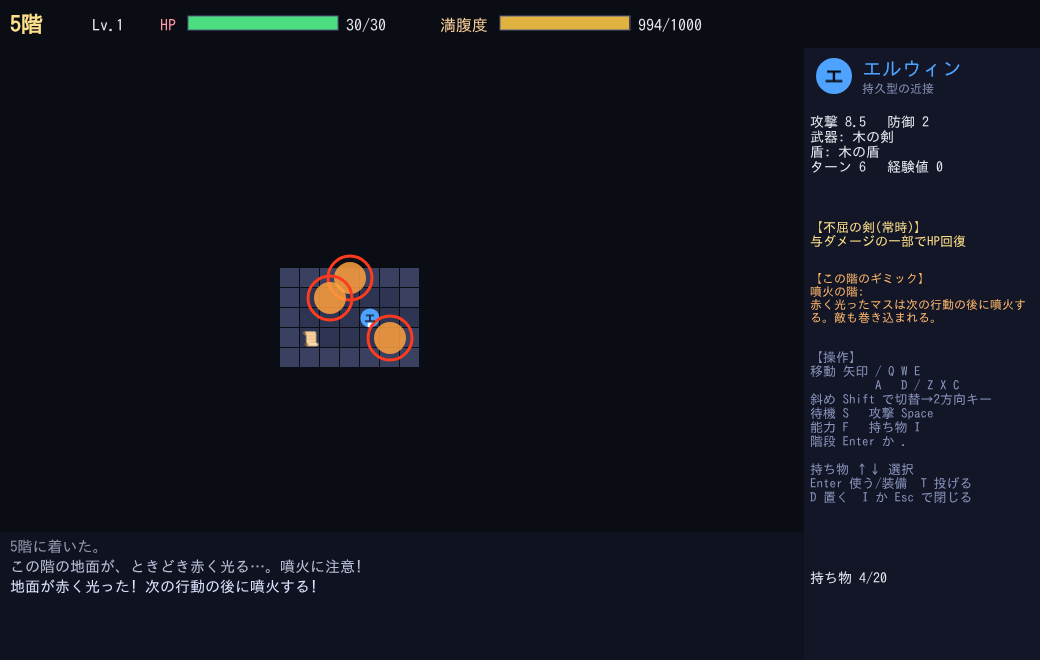
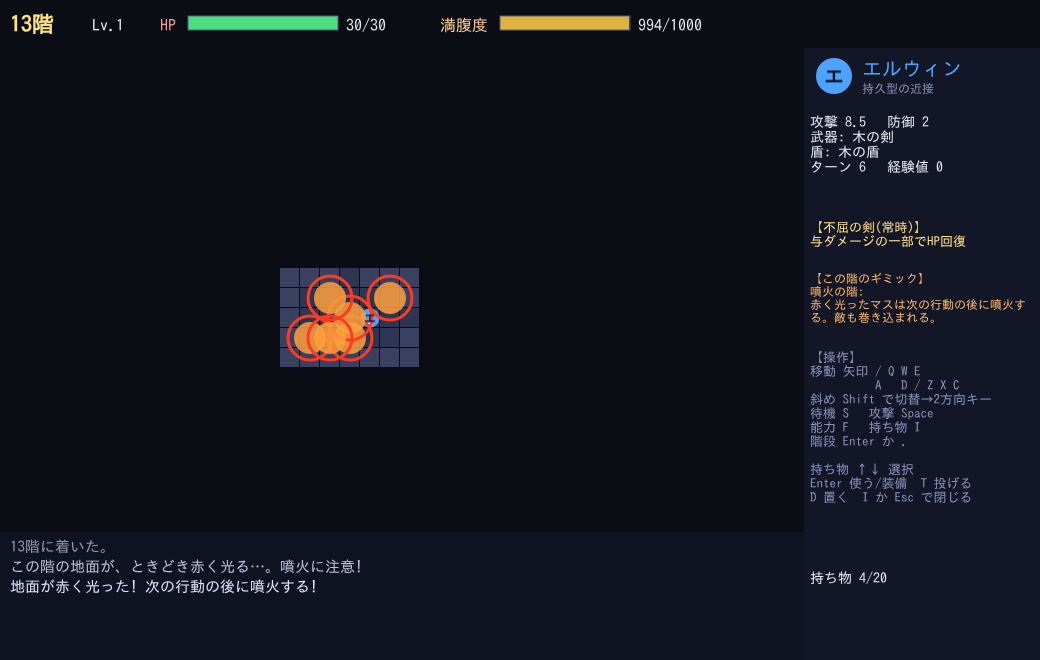
全20階にし、ギミックは11階以降に変更(敵の出現階・成長・数値を調整)
Claude-Session: https://claude.ai/code/session_01CApP844H6gPytoXvYh9u8m

Changed region(s): [[0.2769, 0.3939, 0.4, 0.5455], [0.0, 0.0, 0.0615, 0.0606], [0.0, 0.8182, 0.0923, 0.8485]]

diff --git a/src/core/data.ts b/src/core/data.ts
@@ -1,6 +1,8 @@
 // ゲームデータ(キャラ・アイテム・敵・罠)。数値の理由は DESIGN.md に記録。
 
-export const MAX_FLOOR = 10;
+export const MAX_FLOOR = 20;
+/** この階からギミックが出る(1〜10階は基本のダンジョン) */
+export const GIMMICK_FROM_FLOOR = 11;
 export const INV_MAX = 20;
 export const MAX_FULLNESS = 1000;
 
@@ -34,7 +36,7 @@ export const CHARS: Record<CharId, CharDef> = {
   },
   barrage: {
     id: 'barrage', name: 'バラージ', role: 'バランス型・瞬間火力', glyph: 'バ', color: 0xff8a3d,
-    hp: 27, hpUp: 10, atk: 7.5, atkUp: 1.1, def: 1, mp: 0, mpUp: 0, evasion: 0,
+    hp: 27, hpUp: 11, atk: 7.5, atkUp: 1.2, def: 1, mp: 0, mpUp: 0, evasion: 0,
     abilityName: '変身(Fキー)',
     abilityDesc: '8ターン変身し、攻撃力が上がって2回行動できる。使用後28ターンは再使用不可。',
   },
@@ -166,19 +168,19 @@ export interface EnemyDef {
 }
 
 export const ENEMIES: EnemyDef[] = [
-  { id: 'slime', name: 'スライム', glyph: '🟢', color: 0x4ade80, hp: 8, atk: 4, def: 0, exp: 4, min: 1, max: 4, ai: 'melee', range: 0, note: '単純に追ってくる' },
-  { id: 'bat', name: 'コウモリ', glyph: '🦇', color: 0x8b8ba7, hp: 7, atk: 4, def: 0, exp: 5, min: 1, max: 5, ai: 'erratic', range: 0, note: '不規則に飛び回る' },
-  { id: 'goblin', name: 'ゴブリン', glyph: '👺', color: 0xe05a47, hp: 16, atk: 6, def: 1, exp: 8, min: 2, max: 7, ai: 'melee', range: 0, note: '丈夫な近接型' },
-  { id: 'thief', name: 'どろぼう', glyph: '🦝', color: 0xc9a227, hp: 14, atk: 3, def: 0, exp: 9, min: 3, max: 8, ai: 'thief', range: 0, note: '持ち物を盗んで逃げる' },
-  { id: 'archer', name: '弓兵', glyph: '🏹', color: 0xd4a373, hp: 14, atk: 6, def: 0, exp: 10, min: 4, max: 9, ai: 'ranged', range: 5, note: '直線上から矢を撃つ' },
-  { id: 'moth', name: '眠り蛾', glyph: '🦋', color: 0x7dd3fc, hp: 16, atk: 5, def: 0, exp: 11, min: 5, max: 10, ai: 'moth', range: 0, note: '攻撃で眠らせてくる' },
-  { id: 'mage', name: '魔術師', glyph: '🧙', color: 0xa78bfa, hp: 15, atk: 7, def: 0, exp: 13, min: 6, max: 10, ai: 'mage', range: 4, note: '防御を無視する魔法を撃つ' },
-  { id: 'golem', name: 'ゴーレム', glyph: '🗿', color: 0x9ca3af, hp: 40, atk: 11, def: 3, exp: 18, min: 7, max: 10, ai: 'slow', range: 0, note: '2ターンに1回しか動かないが硬い' },
+  { id: 'slime', name: 'スライム', glyph: '🟢', color: 0x4ade80, hp: 8, atk: 4, def: 0, exp: 4, min: 1, max: 8, ai: 'melee', range: 0, note: '単純に追ってくる' },
+  { id: 'bat', name: 'コウモリ', glyph: '🦇', color: 0x8b8ba7, hp: 7, atk: 4, def: 0, exp: 5, min: 1, max: 10, ai: 'erratic', range: 0, note: '不規則に飛び回る' },
+  { id: 'goblin', name: 'ゴブリン', glyph: '👺', color: 0xe05a47, hp: 16, atk: 6, def: 1, exp: 8, min: 3, max: 14, ai: 'melee', range: 0, note: '丈夫な近接型' },
+  { id: 'thief', name: 'どろぼう', glyph: '🦝', color: 0xc9a227, hp: 14, atk: 3, def: 0, exp: 9, min: 5, max: 16, ai: 'thief', range: 0, note: '持ち物を盗んで逃げる' },
+  { id: 'archer', name: '弓兵', glyph: '🏹', color: 0xd4a373, hp: 14, atk: 6, def: 0, exp: 10, min: 7, max: 18, ai: 'ranged', range: 5, note: '直線上から矢を撃つ' },
+  { id: 'moth', name: '眠り蛾', glyph: '🦋', color: 0x7dd3fc, hp: 16, atk: 5, def: 0, exp: 11, min: 9, max: 20, ai: 'moth', range: 0, note: '攻撃で眠らせてくる' },
+  { id: 'mage', name: '魔術師', glyph: '🧙', color: 0xa78bfa, hp: 15, atk: 7, def: 0, exp: 13, min: 11, max: 20, ai: 'mage', range: 4, note: '防御を無視する魔法を撃つ' },
+  { id: 'golem', name: 'ゴーレム', glyph: '🗿', color: 0x9ca3af, hp: 40, atk: 11, def: 3, exp: 18, min: 13, max: 20, ai: 'slow', range: 0, note: '2ターンに1回しか動かないが硬い' },
 ];
 
 export const BOSS: EnemyDef = {
   id: 'boss', name: '試練の竜', glyph: '🐉', color: 0xf43f5e, hp: 135, atk: 13, def: 3, exp: 300,
-  min: 10, max: 10, ai: 'boss', range: 5, note: '近づくと殴り、離れると炎を吐く',
+  min: 20, max: 20, ai: 'boss', range: 5, note: '近づくと殴り、離れると炎を吐く',
 };
 
 export function expToNext(level: number): number {
@@ -197,22 +199,22 @@ export interface GimmickDef {
   weight: number;
 }
 
-/** 2〜9階のうち、階ごとに多くて1つ。同じギミックは続けて出ない。1階とボス階(10階)は出ない。 */
+/** 11〜19階のうち、階ごとに多くて1つ。同じギミックは続けて出ない。10階までとボス階(20階)は出ない。 */
 export const GIMMICKS: GimmickDef[] = [
-  { id: 'vault', name: '鍵と宝部屋', min: 2, weight: 3,
+  { id: 'vault', name: '鍵と宝部屋', min: 11, weight: 3,
     desc: 'どこかに鍵が落ちている。鍵で、鍵のかかった宝部屋の扉を開けられる。',
     announce: 'この階のどこかに、鍵のかかった宝部屋がある…' },
-  { id: 'dark', name: '暗闇の階', min: 3, weight: 2,
+  { id: 'dark', name: '暗闇の階', min: 13, weight: 2,
     desc: '周り2マスしか見えない。遠距離攻撃も飛んでこない。',
     announce: 'この階は真っ暗だ…。周りがほとんど見えない!' },
-  { id: 'house', name: 'モンスターハウス', min: 3, weight: 3,
+  { id: 'house', name: 'モンスターハウス', min: 12, weight: 3,
     desc: '敵が眠る部屋がある。踏み込むと全員が目を覚ます。奥には宝がある。',
     announce: 'この階には、嫌な気配がする…' },
-  { id: 'eruption', name: '噴火の階', min: 4, weight: 3,
+  { id: 'eruption', name: '噴火の階', min: 14, weight: 3,
     desc: '赤く光ったマスは次の行動の後に噴火する。敵も巻き込まれる。',
     announce: 'この階の地面が、ときどき赤く光る…。噴火に注意!' },
 ];
 
 export function eruptionDamage(floor: number): number {
-  return 4 + floor;
+  return 6 + Math.floor(floor / 2);
 }

diff --git a/src/core/game.ts b/src/core/game.ts
@@ -2,7 +2,7 @@
 import { Rng } from './rng';
 import {
   ALIAS_POOL, BARRAGE_CD, BARRAGE_DURATION, BOSS, CHARS, CLAYD_CD, CLAYD_INFO_TURNS, EFFECTS, ENEMIES,
-  INV_MAX, ItemKind, KIND_WEIGHTS, MAX_FLOOR, MAX_FULLNESS, SION_COST, SION_RANGE, TRAPS, TrapKind,
+  GIMMICK_FROM_FLOOR, INV_MAX, ItemKind, KIND_WEIGHTS, MAX_FLOOR, MAX_FULLNESS, SION_COST, SION_RANGE, TRAPS, TrapKind,
   CharId, EnemyDef, effectOf, expToNext,
 } from './data';
 import { DOOR, FLOOR, FloorMap, H, STAIRS, W, WALL, generateFloor } from './mapgen';
@@ -212,7 +212,7 @@ export class Game {
       this.forcedGimmick = null;
       return g;
     }
-    if (f < 2 || f >= MAX_FLOOR) return 'none';
+    if (f < GIMMICK_FROM_FLOOR || f >= MAX_FLOOR) return 'none';
     const pool = GIMMICKS.filter((g) => f >= g.min && g.id !== this.lastGimmick);
     if (pool.length === 0 || this.rng.chance(0.25)) return 'none'; // ギミックのない階も混ぜる
     return this.rng.weighted(pool).id;
@@ -390,7 +390,7 @@ export class Game {
       const by = room.y + Math.floor(room.h / 2);
       this.spawnMonster(BOSS, bx, by);
     }
-    const count = (f === MAX_FLOOR ? 4 : 4 + Math.floor(f / 2)) + this.rng.int(0, 2);
+    const count = (f === MAX_FLOOR ? 4 : 4 + Math.floor(f / 4)) + this.rng.int(0, 2);
     for (let i = 0; i < count; i++) {
       const pos = this.randomFreeTile(6);
       if (!pos) continue;
@@ -406,7 +406,7 @@ export class Game {
       if (pos) this.floorItems.push({ x: pos.x, y: pos.y, item: this.randomItem() });
     }
     // 罠
-    const nTraps = 3 + Math.floor(f / 3) + this.rng.int(0, 1);
+    const nTraps = 3 + Math.floor(f / 6) + this.rng.int(0, 1);
     for (let i = 0; i < nTraps; i++) {
       const pos = this.randomFreeTile(3);
       if (!pos) continue;
@@ -420,17 +420,17 @@ export class Game {
   private pickEnemy(): EnemyDef {
     const f = this.floor;
     const pool = ENEMIES.filter((e) => f >= e.min && f <= e.max).map((e) => ({
-      e, weight: 1 + (f - e.min) * 0.3,
+      e, weight: 1 + (f - e.min) * 0.15,
     }));
     return this.rng.weighted(pool).e;
   }
 
   spawnMonster(def: EnemyDef, x: number, y: number): Monster {
     const f = this.floor;
-    const hp = Math.round(def.hp * (def.id === 'boss' ? 1 : 1 + 0.12 * (f - 1)));
-    const atk = Math.round(def.atk * (def.id === 'boss' ? 1 : 1 + 0.09 * (f - 1)));
+    const hp = Math.round(def.hp * (def.id === 'boss' ? 1 : 1 + 0.06 * (f - 1)));
+    const atk = Math.round(def.atk * (def.id === 'boss' ? 1 : 1 + 0.045 * (f - 1)));
     const m: Monster = {
-      id: this.nextId++, def, hp, maxHp: hp, atk, armor: def.def + (def.id === 'boss' ? 0 : Math.floor(f / 5)),
+      id: this.nextId++, def, hp, maxHp: hp, atk, armor: def.def + (def.id === 'boss' ? 0 : Math.floor(f / 10)),
       x, y, sleep: 0, dormant: false, alerted: def.id === 'boss', fleeing: false, phase: 0, cd: 3, stolen: null, deepSleep: 0,
     };
     this.monsters.push(m);
@@ -735,7 +735,7 @@ export class Game {
         if (this.status === 'playing') this.newFloor(this.floor + 1);
         break;
       case 'mine': {
-        const d = 12 + this.floor * 2;
+        const d = 12 + this.floor;
         this.log(`地雷が爆発した! ${d}のダメージ!`);
         this.traps.splice(this.traps.indexOf(tr), 1);
         this.damagePlayer(d, '地雷');

diff --git a/test/core.test.ts b/test/core.test.ts
@@ -41,7 +41,7 @@ describe('乱数とマップ生成', () => {
     expect(runBot('elwin', 5).turns).toBe(runBot('elwin', 5).turns);
   });
 
-  it('全10階で階段(10階はボス部屋)まで道がつながる', () => {
+  it('全20階で階段(最終階はボス部屋)まで道がつながる', () => {
     for (let seed = 1; seed <= 20; seed++) {
       const rng = new Rng(seed);
       for (let f = 1; f <= MAX_FLOOR; f++) {
@@ -59,7 +59,7 @@ describe('乱数とマップ生成', () => {
     expect(H).toBeGreaterThan(0);
   });
 
-  it('10階にボスが1体いる', () => {
+  it('最終階(20階)にボスが1体いる', () => {
     const g = new Game('elwin', 3, { startFloor: MAX_FLOOR });
     expect(g.monsters.filter((m) => m.def.id === 'boss')).toHaveLength(1);
   });
@@ -271,7 +271,7 @@ describe('基本ルール', () => {
   it('敵は8種類以上いて、階層ごとに出る種類が変わる', () => {
     expect(ENEMIES.length).toBeGreaterThanOrEqual(8);
     const early = new Set(ENEMIES.filter((e) => e.min <= 1).map((e) => e.id));
-    const late = new Set(ENEMIES.filter((e) => e.max >= 10).map((e) => e.id));
+    const late = new Set(ENEMIES.filter((e) => e.max >= MAX_FLOOR).map((e) => e.id));
     expect([...early].sort()).not.toEqual([...late].sort());
   });
 });
@@ -480,21 +480,21 @@ describe('斜め入力', () => {
 /** 指定のギミックがうまく作れた最初のシードのゲームを返す */
 function gimmickGame(gimmick: GimmickId, charId: CharId = 'elwin'): Game {
   for (let seed = 1; seed <= 60; seed++) {
-    const g = new Game(charId, seed, { startFloor: 5, gimmick });
+    const g = new Game(charId, seed, { startFloor: 13, gimmick });
     if (g.gimmick === gimmick) return g;
   }
   throw new Error(`${gimmick} を作れるシードが見つからない`);
 }
 
 describe('階のギミック', () => {
-  it('1階とボス階にはギミックが出ず、同じギミックは続けて出ない', () => {
+  it('ギミックは11〜19階だけに出て、同じギミックは続けて出ない', () => {
     for (let seed = 1; seed <= 40; seed++) {
       const g = new Game('elwin', seed);
       expect(g.gimmick).toBe('none');
       let last: GimmickId = 'none';
       for (let f = 2; f <= MAX_FLOOR; f++) {
         g.newFloor(f);
-        if (f === MAX_FLOOR) expect(g.gimmick).toBe('none');
+        if (f <= 10 || f === MAX_FLOOR) expect(g.gimmick).toBe('none');
         else if (g.gimmick !== 'none' && last !== 'none') expect(g.gimmick).not.toBe(last);
         last = g.gimmick;
       }

diff --git a/scripts/shots.ts b/scripts/shots.ts
@@ -168,7 +168,7 @@ async function main() {
 
   // ---- 階のギミック ----
   /** 指定のギミックが作れるシードを探して、その階から始める */
-  async function startGimmick(charNo: number, gimmick: string, floor = 5) {
+  async function startGimmick(charNo: number, gimmick: string, floor = 13) {
     for (let seed = 1; seed <= 40; seed++) {
       await page.goto(`${base}?seed=${seed}&floor=${floor}&gimmick=${gimmick}`);
       await page.waitForTimeout(400);
@@ -219,7 +219,7 @@ async function main() {
   await shot('23b_gimmick_vault_opened');
 
   // 11. ボス戦
-  await startRun(1, '&floor=10');
+  await startRun(1, '&floor=20');
   await stage(`const b = g.monsters.find(m => m.def.id === 'boss'); g.monsters = [b]; b.alerted = true;
     for (let i = 1; i <= 6; i++) carve(b.x - i, b.y);
     p.x = b.x - 4; p.y = b.y; p.dx = 1; p.dy = 0; carve(p.x, p.y);`);
@@ -234,7 +234,7 @@ async function main() {
   await shot('12_gameover');
 
   // 13. クリア
-  await startRun(3, '&floor=10');
+  await startRun(3, '&floor=20');
   await stage(`const b = g.monsters.find(m => m.def.id === 'boss'); g.monsters = [b];
     carve(b.x - 1, b.y); p.x = b.x - 1; p.y = b.y; p.dx = 1; p.dy = 0; b.hp = 1; b.sleep = 99;`);
   await page.evaluate(`window.__app.act({ t: 'move', dx: 1, dy: 0 })`);

diff --git a/src/scenes/TitleScene.ts b/src/scenes/TitleScene.ts
@@ -11,7 +11,7 @@ export class TitleScene extends Phaser.Scene {
     }
     txt(this, GAME_W / 2, 150, 'GranStellaDungeons', 64, '#9db4ff').setOrigin(0.5);
     txt(this, GAME_W / 2, 225, '— 試練のダンジョン —', 26, '#c7d0f5').setOrigin(0.5);
-    txt(this, GAME_W / 2, 300, '5人の中から1人を選び、全10階の最深部を目指せ。', 20, '#aab3d6').setOrigin(0.5);
+    txt(this, GAME_W / 2, 300, '5人の中から1人を選び、全20階の最深部を目指せ。', 20, '#aab3d6').setOrigin(0.5);
     txt(this, GAME_W / 2, 332, 'やられたら持ち物も成長も失い、最初からやり直し。', 20, '#aab3d6').setOrigin(0.5);
     const start = txt(this, GAME_W / 2, 440, 'Enterキーではじめる', 32, '#ffe08a').setOrigin(0.5);
     this.tweens.add({ targets: start, alpha: 0.35, duration: 800, yoyo: true, repeat: -1 });

diff --git a/scripts/bot.ts b/scripts/bot.ts
@@ -35,7 +35,7 @@ for (const id of CHAR_IDS) {
   if (avgFloor < 4) ok = false;
 }
 
-console.log('| キャラ | 10階クリア率 | 平均到達階 | 平均ターン数 |');
+console.log('| キャラ | 20階クリア率 | 平均到達階 | 平均ターン数 |');
 console.log('|---|---|---|---|');
 for (const r of rows) console.log(r);
 console.log('');

diff --git a/DESIGN.md b/DESIGN.md
@@ -15,8 +15,8 @@
 - 食料は常に鑑定済み(未鑑定にすると食べ物が毒になる仕様がなく、遊びが増えないため)
 - 武器・盾も未鑑定名(「さびた剣」など)。装備すると正体が分かる。「呪い」は外せない
 - 罠: 落とし穴(下の階へ)/地雷/眠りガス/ワープ。最初は見えない。踏むか、クレイドの鑑定、目薬草で見える。敵は罠を踏まない
-- 敵8種: スライム/コウモリ(不規則)/ゴブリン/どろぼう(盗んで逃げる)/弓兵(直線射撃)/眠り蛾(眠り付与)/魔術師(防御半減の遠距離)/ゴーレム(2ターンに1回)。10階はボス「試練の竜」(近接+直線の炎)
-- 敵の強さは階ごとに HP+12%、攻撃+9% で上がる
+- 敵8種: スライム/コウモリ(不規則)/ゴブリン/どろぼう(盗んで逃げる)/弓兵(直線射撃)/眠り蛾(眠り付与)/魔術師(防御半減の遠距離)/ゴーレム(2ターンに1回)。20階はボス「試練の竜」(近接+直線の炎)
+- 敵の強さは階ごとに HP+6%、攻撃+4.5% で上がる(全20階にしたため、最初の10階制のときの半分の刻みにした)
 
 ## キャラの固有能力(役割は characters.md どおり)
 | キャラ | 能力 | 制限 |
@@ -81,7 +81,7 @@
 
 ## 階のギミック(「ダンジョンのギミックが必要」との感想を受けて追加)
 - 発想元: ステージギミック案(Tactics側)の「予告マス」「スイッチと扉」「霧の中を進む」などを、ローグライク向けに選び直した。最初の4つを実装(`src/core/data.ts` の `GIMMICKS`)
-- 出し方: 2〜9階で、階ごとに多くて1つ(4分の1は何もなし)。1階とボス階(10階)は出ない。同じギミックは続けて出ない。出る階は最低階あり(鍵と宝部屋2階〜、暗闇・モンスターハウス3階〜、噴火4階〜)。階に着いたときのメッセージと、右パネルの「この階のギミック」で伝える
+- 出し方: 11〜19階で、階ごとに多くて1つ(4分の1は何もなし)。1階とボス階(20階)は出ない。同じギミックは続けて出ない。出る階は最低階あり(鍵と宝部屋11階〜、モンスターハウス12階〜、暗闇13階〜、噴火14階〜)。階に着いたときのメッセージと、右パネルの「この階のギミック」で伝える
 - 噴火の階: 5ターンごとに、見えているマスのうち2+階÷3個に赤い予告マスが出て、次の行動の後に噴火する(ダメージは4+階数)。予告の上にいなければ無傷。敵も巻き込まれるので、誘い込みに使える。通路は隣のマスしか見えないので、予告も見えているマスにしか出ない
 - 暗闇の階: 周り2マスしか見えず、敵も2マス以内でしか気づかない。遠距離攻撃は飛んでこない
 - モンスターハウス: 眠った敵4〜7体と宝3個がある部屋が1つ(開始部屋・階段の部屋は避ける)。部屋に踏み込むと全員が目を覚ます。クレイドの鑑定で、その部屋が赤く表示される(クレイドの情報役としての使い道)
@@ -91,11 +91,22 @@
 - ボット検証は再実行し、数値目標を通っている(クリア率11〜27%、最大差16ポイント)
 - 撮影用に、URLの `?gimmick=eruption|dark|house|vault&floor=5` でギミック付きの階から始められる
 
+## 全20階、ギミックは11階以降(「ギミックは11階以降にして全20階にしては」との提案を受けた修正)
+- 1〜10階は基本のダンジョン(ギミックなし)、11〜19階でギミックが出て、20階がボス階。全体を2倍の長さにして、「基本を覚える前半」と「ギミックで変化がつく後半」に分けた
+- 定数は `MAX_FLOOR`(20)と `GIMMICK_FROM_FLOOR`(11)。変えるのはこの2つだけでよい
+- 敵の出る階を約2倍に引き延ばした(スライム1〜8階、コウモリ1〜10階、ゴブリン3〜14階、どろぼう5〜16階、弓兵7〜18階、眠り蛾9〜20階、魔術師11〜20階、ゴーレム13〜20階)。新しい敵は足していない
+- 階ごとの敵のHP・攻撃の上がり方は半分にした(20階の敵が、以前の10階の敵とほぼ同じ強さ)。敵の防御の増加は10階ごとに1。1階あたりの敵の数は 4+階÷4、罠の数は 3+階÷6、地雷のダメージは 12+階数 にした
+- 噴火のダメージは 6+階÷2 に下げた(20階制で、ボットが噴火で倒れすぎたため)
+- バラージのクリア率が5%まで下がったので、レベルごとのHP増加を +11、攻撃の伸びを +1.2 に上げた
+- ボット検証は再実行し、数値目標を通っている(クリア率9〜36%、最大差27ポイント、平均到達階 16.2〜17.6)
+- この変更は SPEC.md の「全10階」「10階クリア率」を「全20階」「20階クリア率」に書き換えている。完了条件の数値(5〜70%・40ポイント以内・平均4階以上・20000ターン以内)は変えていない
+- 装備は最強でも光の剣(+7)・ミスリルの盾(+4)のまま。20階までの長さには、さらに強い装備や新しい敵があってもよい(未実装)
+
 ## スクショについて
 - 全画面を `npm run shots` で撮れた(14枚)。撮れなかった画面はない
 - 撮影用に、状況を作る(敵を隣に置く等)ため `window.__app`(`?debug` 不要・常時公開)を使う。通常のプレイには影響しない
 - 「固有能力発動の瞬間」はゲームのアニメーションを待たずに、行動直後の描画で撮っている(ダメージ数字・ビーム・範囲円が出た状態)
-- 10階のボス戦・クリア画面は、状況づくりのため `?floor=10` で10階から始めている(通常のプレイでは1階から)
+- 20階のボス戦・クリア画面は、状況づくりのため `?floor=20` で20階から始めている(通常のプレイでは1階から)
 
 ## 既知の制限(モックのため)
 - 敵が複数いるときの経路は単純(視界とBFSのみ)。ゴーレムや弓兵の細かい挙動は未調整

diff --git a/CHECKLIST.md b/CHECKLIST.md
@@ -5,25 +5,25 @@
 ## 完了条件
 - [x] 1. ビルドが通る / `npm run build` → `tsc --noEmit` エラーなし、`vite build` が `✓ built in 1.12s` で完了(dist/ 出力)
 - [x] 2. 自動テストが通る / `npm test` → `Test Files 1 passed (1) / Tests 45 passed (45)`。固有能力5つ(エルウィン回復・バラージ2回行動とCD・シオン魔法とMP・フェイト範囲とHP消費・クレイド鑑定と罠発見)と、同時ターン・満腹度・未鑑定アイテム・罠(地雷/眠りガス/落とし穴)を含む
-- [x] 3. ボット検証の数値目標を満たす / `npm run bot` → クリア率 エルウィン27%・バラージ13%・シオン19%・フェイト11%・クレイド16%(全員5〜70%)、最大差16ポイント(≤40)、平均到達階 8.43〜8.95(≥4)、20000ターン超過0件・クラッシュ0件、`判定: 合格`
+- [x] 3. ボット検証の数値目標を満たす / `npm run bot` → 20階クリア率 エルウィン36%・バラージ10%・シオン28%・フェイト9%・クレイド14%(全員5〜70%)、最大差27ポイント(≤40)、平均到達階 16.23〜17.60(≥4)、20000ターン超過0件・クラッシュ0件、`判定: 合格`
 - [x] 4. スクショが全て保存されている / `npm run shots` → screenshots/ に26枚(01_title, 02_charselect, 03_exploring_floor1, 04_battle, 05〜09の固有能力5枚, 09a/10 クレイドの鑑定前後, 10b/10c 投げる操作, 03b/03c 斜めモード, 03d 通路の見え方, 20〜23 階のギミック(噴火・暗闇・モンスターハウス・鍵と宝部屋), 11_boss, 12_gameover, 13_clear)。撮れなかった画面なし
 - [x] 5. このチェックリストの全項目が埋まっている / 下記の機能欄も全て確認済み
 
 ## 機能
-- [x] ランダム生成(部屋+通路、10階、階段) / test「全10階で階段まで道がつながる」(20シード×10階)
+- [x] ランダム生成(部屋+通路、20階、階段) / test「全20階で階段まで道がつながる」(20シード×20階)
 - [x] 同時ターン制の戦闘 / test「プレイヤーが1回行動するごとに敵も1回動く」
 - [x] 満腹度 / test「満腹度は毎ターン減り、0になるとダメージを受ける」「食料で回復」
 - [x] 未鑑定アイテム(名前がランダム)、使うと判明 / test「未鑑定アイテムは別名で表示され、使うと正体が分かる」、スクショ 10_identify_items
 - [x] 罠(見えない罠を含む) / test「罠は最初は見えず…」「眠りガス」「落とし穴」、クレイドの鑑定で発見(test)
 - [x] レベルアップ / test「経験値でレベルアップし、HPと攻撃力が上がる」
 - [x] 持ち物(上限20)、装備(武器・盾) / test「持ち物は最大20個」「武器と盾を1つずつ装備でき、呪われた装備は外せない」
-- [x] ボス(10階) / test「10階にボスが1体いる」「ボスを倒すとクリア」、スクショ 11_boss
+- [x] ボス(20階) / test「最終階(20階)にボスが1体いる」「ボスを倒すとクリア」、スクショ 11_boss
 - [x] 死亡で最初からやり直し / test「死亡するとゲームオーバー」、ゲームオーバー画面→Enterでキャラ選択へ(`src/scenes/EndScenes.ts`)。スクショ 12_gameover
 - [x] タイトル画面 / キャラ選択画面 / スクショ 01_title, 02_charselect(各キャラの能力説明つき)
 - [x] アイテムを投げる・睡眠草 / test「睡眠草: 食べると3ターン眠り、投げると敵が3ターン眠って殴っても起きない」「投げる: 毒草は敵にダメージ、外れたアイテムは床に落ちる」、スクショ 10b_throw_prompt, 10c_throw_sleep
 - [x] 遠距離攻撃は部屋を出れば逃げられる・通路では自分の周り1マスしか見えない / test「遠距離攻撃は部屋を出れば逃げられる」3件、「通路では自分の周り1マスしか見えない」4件、スクショ 03d_corridor_view
 - [x] 斜めモード(Shift + 2方向キー) / test「斜め入力」4件、`npm run shots` が実ブラウザで斜め移動を確認(03b/03c)
-- [x] 階のギミック(噴火・暗闇・モンスターハウス・鍵と宝部屋) / test「階のギミック」6件、スクショ 20〜23
+- [x] 階のギミック(噴火・暗闇・モンスターハウス・鍵と宝部屋、11〜19階で出現) / test「階のギミック」6件、スクショ 20〜23
 - [x] エルウィンの固有能力 / test + 05_ability_elwin
 - [x] バラージの固有能力 / test + 06_ability_barrage
 - [x] シオンの固有能力 / test + 07_ability_sion
